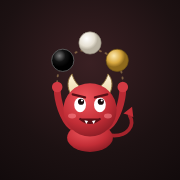
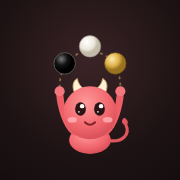
앱 아이콘 악마를 귀엽게: 큰 눈, 부드러운 색, 작은 뿔
Claude-Session: https://claude.ai/code/session_01TFfcDDRYwQWxJep5CwDiYr

Changed region(s): [[0.2778, 0.1667, 0.75, 0.8611]]

diff --git a/sw.js b/sw.js
@@ -1,5 +1,5 @@
 // 포인트 오목 앱: 화면 파일은 항상 새 버전을 먼저 받고, 인터넷이 끊겼을 때만 저장본을 씁니다.
-const CACHE='pomok-v2';
+const CACHE='pomok-v3';
 const SHELL=['./','./index.html','./3p.html','./manifest.webmanifest','./icons/icon-192.png','./icons/icon-512.png','./icons/apple-touch-icon.png'];
 self.addEventListener('install',e=>{e.waitUntil(caches.open(CACHE).then(c=>c.addAll(SHELL)).then(()=>self.skipWaiting()))});
 self.addEventListener('activate',e=>{e.waitUntil(caches.keys().then(ks=>Promise.all(ks.filter(k=>k!==CACHE).map(k=>caches.delete(k)))).then(()=>self.clients.claim()))});
